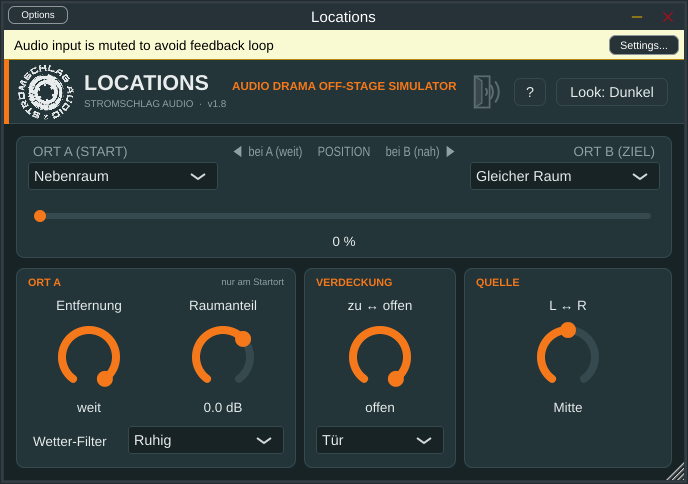
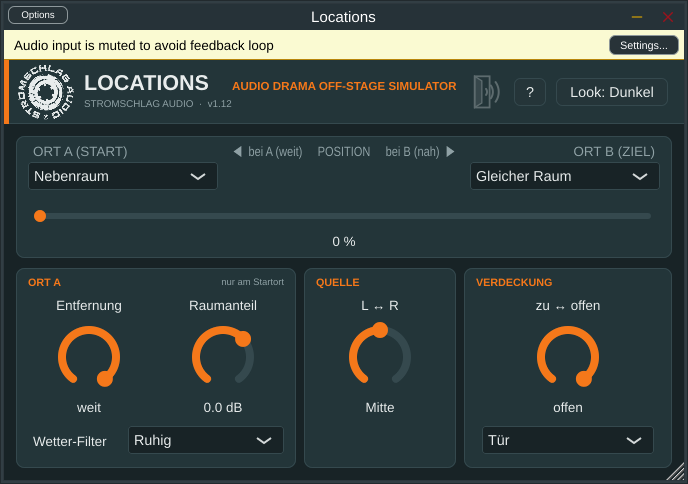
1.12: L-R auf Mono-Spuren korrigiert, Mono rein/Stereo raus, Verdeckung ganz rechts, Wetter-Filter drei Stufen
Claude-Session: https://claude.ai/code/session_01N8U6GB1xxMvz4mQTh8N7Nk

diff --git a/docs/index.html b/docs/index.html
@@ -64,7 +64,7 @@
     <li><strong>Quelle bewegen:</strong> eine Tür öffnet sich, während jemand spricht, oder jemand kommt aus dem Nebenraum herein.</li>
     <li><strong>Ein Hauptregler:</strong> „Position (A nach B)“ ist der Regler, den man automatisiert. Alles andere stellt man einmal ein.</li>
     <li><strong>Orte:</strong> 17 Umgebungen innen und draußen (z. B. Keller, Kirche, Tiefgarage, Wald, Schlucht), dazu Verdeckungen wie Tür, Fenster, Autoscheibe, Schrank, Kofferraum oder Unter Wasser. Die Verdeckung wirkt unabhängig von der Position, also auch, wenn die Quelle ganz nah ist.</li>
-    <li><strong>Wetter-Filter für draußen:</strong> Ruhig, Wind, Regen, Sturm. Er verändert nur den Klang.</li>
+    <li><strong>Wetter-Filter für draußen:</strong> Ruhig, Wind / Regen, Sturm. Er verändert nur den Klang.</li>
     <li><strong>Vergrößerbare Oberfläche</strong> von 50 % bis 300 %, hell und dunkel.</li>
   </ul>
 

diff --git a/Source/PluginEditor.cpp b/Source/PluginEditor.cpp
@@ -96,8 +96,8 @@ LocationsEditor::LocationsEditor (LocationsProcessor& p) : AudioProcessorEditor 
         "POSITION (A nach B)\n"
         "Der wichtigste Regler. 0 % = Quelle bei Ort A, 100 % = bei Ort B. Automatisiere ihn für jede Bewegung "
         "(Treppe herunter, Suchtrupp kommt näher, jemand geht weg).\n\n"
-        "Unten gibt es drei Kästen: ORT A (wirkt nur am Startort), VERDECKUNG (unabhängig von der Position) "
-        "und QUELLE (links/rechts, bleibt über die ganze Bewegung gleich).\n\n"
+        "Unten gibt es drei Kästen: ORT A (wirkt nur am Startort), QUELLE (links/rechts, bleibt über die ganze Bewegung gleich) "
+        "und ganz rechts VERDECKUNG (unabhängig von der Position, wirkt auch bei Ort B).\n\n"
         "ORT A – ENTFERNUNG (nah – weit)\n"
         "Wie weit weg Ort A ist. Beispiel Suchtrupp: weit = tief im Wald, 40 % = ein paar Bäume entfernt. "
         "Wirkt nur auf Ort A.\n\n"
@@ -108,10 +108,11 @@ LocationsEditor::LocationsEditor (LocationsProcessor& p) : AudioProcessorEditor 
         "Fenster gekippt = etwa in der Mitte. Autoscheibe: jemand spricht von außen ins Auto oder umgekehrt.\n\n"
         "QUELLE – L ↔ R (Panorama)\n"
         "Platziert die Quelle – also das, was auf der Spur liegt: Stimme, Schritte, Geräusch – links oder rechts. "
-        "Hall und Echo bleiben in der Mitte (anders als der Pan am Kanal). Wirkt bei Ort A, auf dem Weg und bei Ort B.\n\n"
+        "Hall und Echo bleiben in der Mitte (anders als der Pan am Kanal). Wirkt bei Ort A, auf dem Weg und bei Ort B. "
+        "Funktioniert nur auf einer Stereo-Spur oder einem Stereo-Bus. Auf einer Mono-Spur ist der Regler ohne Wirkung – dort den Pan am Kanal benutzen.\n\n"
         "ORT A – WETTER-FILTER\n"
         "Ändert nur den Klang, es kommen keine Wind- oder Regengeräusche dazu. Nur wenn Ort A draußen ist: "
-        "Wind, Regen oder Sturm schlucken Höhen und lassen Rufe in Böen schwanken. "
+        "Wind / Regen oder Sturm schlucken Höhen und lassen Rufe in Böen schwanken (Sturm deutlich stärker). "
         "Wirkt umso stärker, je weiter weg die Quelle ist, und verschwindet, wenn sie bei Ort B ankommt.\n\n"
         "ORT A – RAUMANTEIL\n"
         "Mehr oder weniger Hall bzw. Echo von Ort A, in dB. Feinregler, normalerweise auf 0 dB lassen.\n\n"
@@ -269,8 +270,8 @@ void LocationsEditor::paint (juce::Graphics& g)
     // Untere Kaesten: ORT A | VERDECKUNG | QUELLE
     struct Box { float x, w; const char* title; const char* note; };
     const Box boxes[] = { { 12.0f, 280.0f, "ORT A", "nur am Startort" },
-                          { 300.0f, 152.0f, "VERDECKUNG", "" },
-                          { 460.0f, (float) W - 472.0f, "QUELLE", "" } };
+                          { 300.0f, 152.0f, "QUELLE", "" },
+                          { 460.0f, (float) W - 472.0f, "VERDECKUNG", "" } };
     const bool barrierActive = door.slider.getValue() < 0.995;   // Verdeckung wirkt (nicht ganz offen)
     for (const auto& b : boxes)
     {
@@ -322,11 +323,11 @@ void LocationsEditor::resized()
     placeKnob (room, 152, 236, 134);
     weatherLabel.setBounds (24, 368, 100, 26);
     weatherBox.setBounds (124, 366, 156, 28);
-    // VERDECKUNG: Regler in der Reihe, Art-Auswahl darunter (auf Hoehe des Wetter-Filters)
-    placeKnob (door, 306, 236, 140);
-    barrierBox.setBounds (312, 366, 128, 28);
-    // QUELLE: L-R (ein Regler, mittig im Kasten)
-    const int qx = 466, qw = w - 12 - 6 - qx;
-    placeKnob (pan, qx, 236, qw);
+    // QUELLE (Mitte): L-R
+    placeKnob (pan, 306, 236, 140);
+    // VERDECKUNG (rechts aussen, wirkt bis zum Schluss): Regler, Art-Auswahl darunter (auf Hoehe des Wetter-Filters)
+    const int vx = 466, vw = w - 12 - 6 - vx;
+    placeKnob (door, vx, 236, vw);
+    barrierBox.setBounds (vx + 12, 366, vw - 24, 28);
     helpText.toFront (false);
 }

diff --git a/Source/PluginProcessor.cpp b/Source/PluginProcessor.cpp
@@ -20,7 +20,7 @@ juce::StringArray LocationsProcessor::barrierNames()
 
 juce::StringArray LocationsProcessor::weatherNames()
 {
-    return { "Ruhig", "Wind", "Regen", "Sturm" };                          // Reihenfolge wie loc::weather()
+    return { "Ruhig", "Wind / Regen", "Sturm" };                          // Reihenfolge wie loc::weather()
 }
 
 juce::AudioProcessorValueTreeState::ParameterLayout LocationsProcessor::createLayout()
@@ -78,18 +78,21 @@ LocationsProcessor::LocationsProcessor()
     pWeather = apvts.getRawParameterValue ("weather");
 }
 
-void LocationsProcessor::prepareToPlay (double sampleRate, int)
+void LocationsProcessor::prepareToPlay (double sampleRate, int maxBlock)
 {
     engine.prepare (sampleRate);
+    monoScratch.assign ((size_t) juce::jmax (maxBlock, 4096), 0.0f);
     setLatencySamples (0);
 }
 
 bool LocationsProcessor::isBusesLayoutSupported (const BusesLayout& layouts) const
 {
     const auto out = layouts.getMainOutputChannelSet();
+    const auto in = layouts.getMainInputChannelSet();
     if (out != juce::AudioChannelSet::mono() && out != juce::AudioChannelSet::stereo())
         return false;
-    return layouts.getMainInputChannelSet() == out;
+    if (in == out) return true;
+    return in == juce::AudioChannelSet::mono() && out == juce::AudioChannelSet::stereo();   // Mono rein, Stereo raus
 }
 
 void LocationsProcessor::processBlock (juce::AudioBuffer<float>& buffer, juce::MidiBuffer&)
@@ -112,8 +115,25 @@ void LocationsProcessor::processBlock (juce::AudioBuffer<float>& buffer, juce::M
     p.weather = juce::roundToInt (pWeather->load());
 
     float* left = buffer.getWritePointer (0);
-    float* right = numCh > 1 ? buffer.getWritePointer (1) : left;
-    engine.process (left, right, numSamples, p);
+
+    if (numCh > 1)
+    {
+        // Mono rein, Stereo raus: den Eingang auf beide Seiten legen, dann wirkt L-R normal
+        if (getTotalNumInputChannels() == 1)
+            buffer.copyFrom (1, 0, buffer, 0, 0, numSamples);
+        engine.process (left, buffer.getWritePointer (1), numSamples, p);
+    }
+    else
+    {
+        // reine Mono-Spur: kein Panorama moeglich (das macht der Pan am Kanal), Raum links/rechts zusammenmischen
+        p.pan = 0.0f;
+        if ((int) monoScratch.size() < numSamples) return;   // sollte nie passieren
+        float* r = monoScratch.data();
+        std::copy (left, left + numSamples, r);
+        engine.process (left, r, numSamples, p);
+        for (int i = 0; i < numSamples; ++i)
+            left[i] = 0.5f * (left[i] + r[i]);
+    }
 
     for (int ch = 2; ch < numCh; ++ch)
         buffer.clear (ch, 0, numSamples);

diff --git a/Source/LocationsDSP.h b/Source/LocationsDSP.h
@@ -92,14 +92,13 @@ inline const BarrierDef& barrier (int i)
 
 // Wetter draussen: zusaetzlicher Hoehenverlust, Pegelverlust und Boeen (Pegel schwankt langsam)
 struct WeatherDef { const char* name; float lpOct, gainDb, gustDb, gustHz; };
-constexpr int kNumWeathers = 4;
+constexpr int kNumWeathers = 3;
 inline const WeatherDef& weather (int i)
 {
     static const WeatherDef defs[kNumWeathers] = {
-        { "Ruhig",  0.0f,  0.0f,  0.0f, 0.5f },
-        { "Wind",   1.0f, -3.0f,  6.0f, 0.6f },
-        { "Regen",  1.5f, -4.0f,  1.5f, 0.3f },
-        { "Sturm",  2.0f, -6.0f, 10.0f, 1.0f },
+        { "Ruhig",         0.0f,  0.0f,  0.0f, 0.5f },
+        { "Wind / Regen",  1.3f, -4.0f,  5.0f, 0.5f },
+        { "Sturm",         2.6f, -9.0f, 12.0f, 1.0f },
     };
     return defs[std::clamp (i, 0, kNumWeathers - 1)];
 }
@@ -294,7 +293,7 @@ struct Params
     float roomDb = 0.0f;       // Raumanteil von Ort A (Trim, dB)
     float pan = 0.0f;          // -1 = links, 0 = Mitte, +1 = rechts (nur die Quelle, nicht der Raum)
     int   barrier = 0;         // Tuer / Fenster / Vorhang / Autoscheibe
-    int   weather = 0;         // Ruhig / Wind / Regen / Sturm (wirkt nur draussen bei Ort A)
+    int   weather = 0;         // Ruhig / Wind-Regen / Sturm (wirkt nur draussen bei Ort A)
 };
 
 class Engine

diff --git a/Source/PluginProcessor.h b/Source/PluginProcessor.h
@@ -40,6 +40,7 @@ public:
 private:
     static juce::AudioProcessorValueTreeState::ParameterLayout createLayout();
     loc::Engine engine;
+    std::vector<float> monoScratch;   // zweiter Kanal fuer Mono-Spuren (vorab angelegt)
     std::atomic<float>* pPlaceA = nullptr; std::atomic<float>* pPlaceB = nullptr;
     std::atomic<float>* pBlend = nullptr;  std::atomic<float>* pDistance = nullptr;
     std::atomic<float>* pDoor = nullptr;   std::atomic<float>* pRoom = nullptr;

diff --git a/README.md b/README.md
@@ -113,10 +113,10 @@ passieren automatisch.
 |---|---|---|
 | **ORT A** – wirkt nur am Startort | Entfernung | wie weit weg Ort A ist (nah – weit) |
 | | Raumanteil | mehr oder weniger Hall bzw. Echo von Ort A (Feinregler, normalerweise 0 dB) |
-| | Wetter-Filter | Ruhig, Wind, Regen, Sturm. **Ändert nur den Klang, erzeugt keine Wind- oder Regengeräusche.** Nur wenn Ort A draußen ist: Höhen werden geschluckt, Böen lassen Rufe schwanken. Stärker mit der Entfernung, verschwindet zu Ort B hin |
-| **VERDECKUNG** – etwas, das sich zwischen Quelle und Hörer stellt; unabhängig von der Position | Art | Tür, Fenster (gekippt ≈ Mitte), Vorhang, Autoscheibe, Schrank, Kofferraum oder Unter Wasser |
+| | Wetter-Filter | Ruhig, Wind / Regen, Sturm. **Ändert nur den Klang, erzeugt keine Wind- oder Regengeräusche.** Nur wenn Ort A draußen ist: Höhen werden geschluckt, Böen lassen Rufe schwanken. Stärker mit der Entfernung, verschwindet zu Ort B hin |
+| **QUELLE** | L ↔ R | Panorama der Quelle (Stimme, Schritte, Geräusch auf der Spur). Nur die Quelle wandert, Hall und Echo bleiben in der Mitte – anders als beim Pan am Kanal. Gilt über die ganze Bewegung. Nur auf Stereo-Spur oder Stereo-Bus – auf einer Mono-Spur den Pan am Kanal benutzen |
+| **VERDECKUNG** (ganz rechts) – etwas, das sich zwischen Quelle und Hörer stellt; unabhängig von der Position | Art | Tür, Fenster (gekippt ≈ Mitte), Vorhang, Autoscheibe, Schrank, Kofferraum oder Unter Wasser |
 | | zu ↔ offen | zu = dumpf und leise mit dem Klang des Hindernisses, offen = keine Wirkung. Die Verdeckung wirkt auch bei Ort B (100 %) – so gehen Kofferraum, Schrank, Autoscheibe oder Unter Wasser, wenn die Quelle nah ist. Für „frei im Raum“ ganz auf offen stellen. Solange sie wirkt, ist der Kasten orange umrandet und zeigt „aktiv“ |
-| **QUELLE** | L ↔ R | Panorama der Quelle (Stimme, Schritte, Geräusch auf der Spur). Nur die Quelle wandert, Hall und Echo bleiben in der Mitte – anders als beim Pan am Kanal. Gilt über die ganze Bewegung |
 
 ## Anwendung
 
@@ -152,6 +152,7 @@ Aus der Ferne kommen nur Fetzen durch, je näher er kommt, desto verständlicher
 
 Die Versionsnummer steht in der Datei `VERSION`, im Plugin-Kopf und im Namen der Release. Sie wird bei jeder Änderung hochgezählt (1.0, 1.1, 1.2 …).
 
+- **1.12** – L ↔ R funktioniert jetzt auch auf Mono-Spuren korrekt (vorher kam dort nur der linke Kanal heraus, rechts war fast still); Kasten VERDECKUNG ganz nach rechts; Wetter-Filter auf drei Stufen (Ruhig, Wind / Regen, Sturm), Sturm deutlich stärker.
 - **1.11** – Fenstergröße wird mit dem Projekt gespeichert (vorher sprang sie beim Öffnen auf 100 % zurück).
 - **1.10** – Kasten VERDECKUNG ist orange umrandet und zeigt „aktiv“, solange die Verdeckung wirkt; Hilfe, Tooltip und README erklären, dass sie auch bei Ort B wirkt.
 - **1.9** – Neue Orte Kirche, Museum und Tiefgarage; neue Verdeckungen Schrank, Kofferraum und Unter Wasser.
